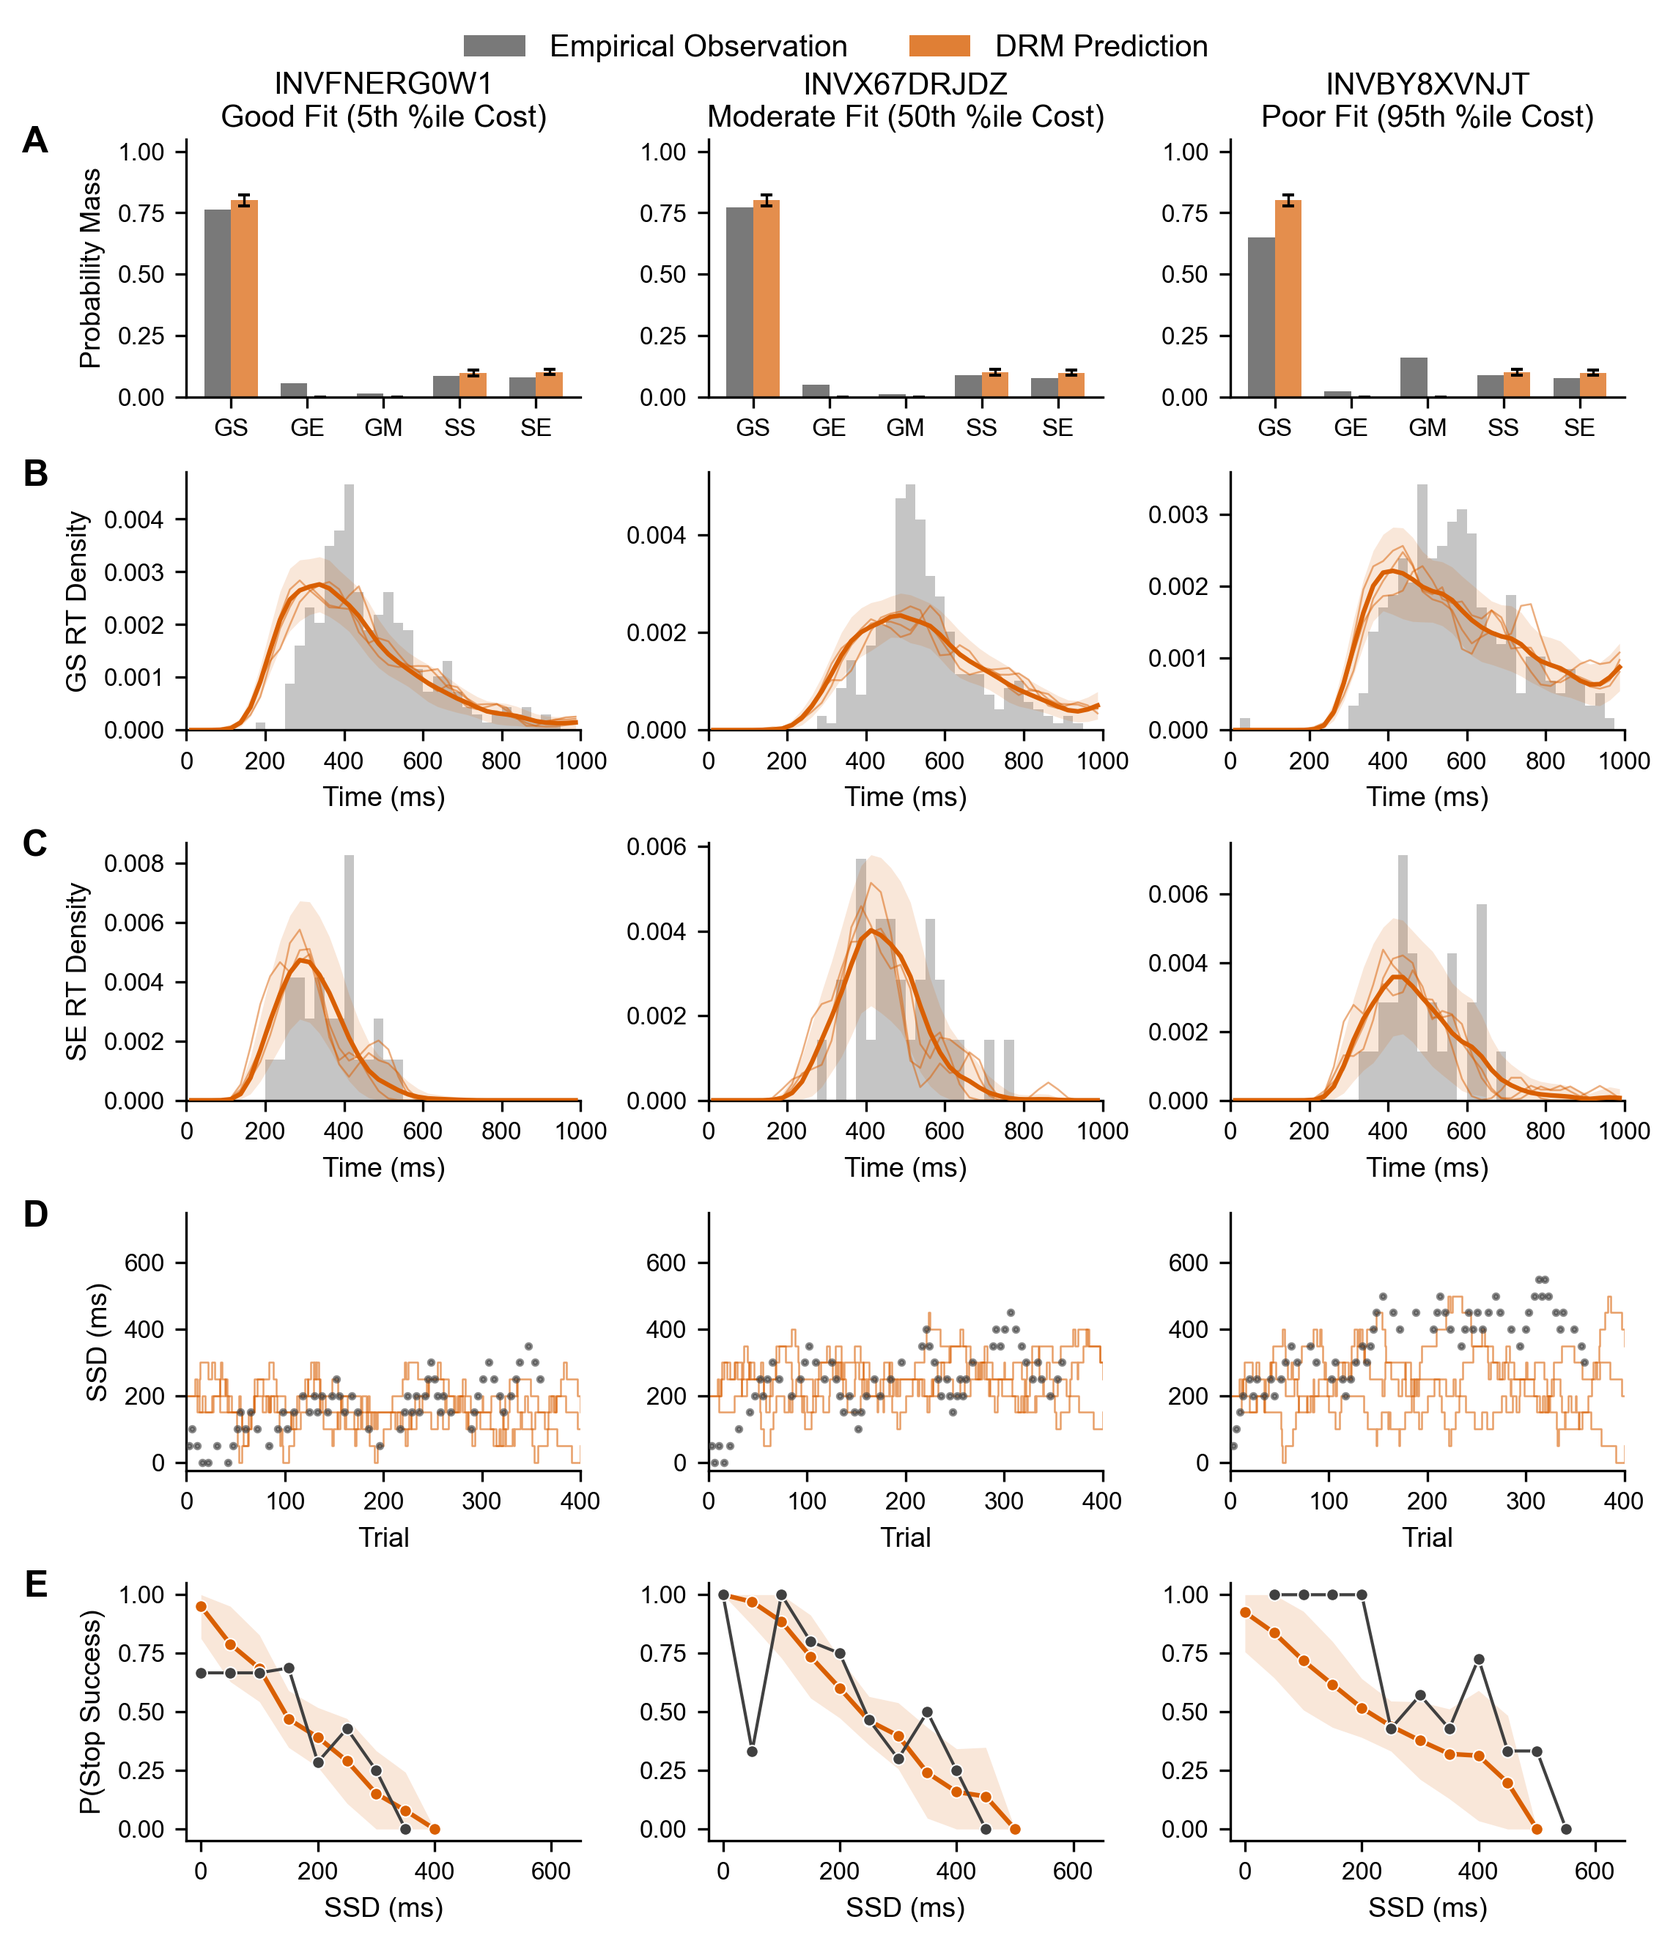
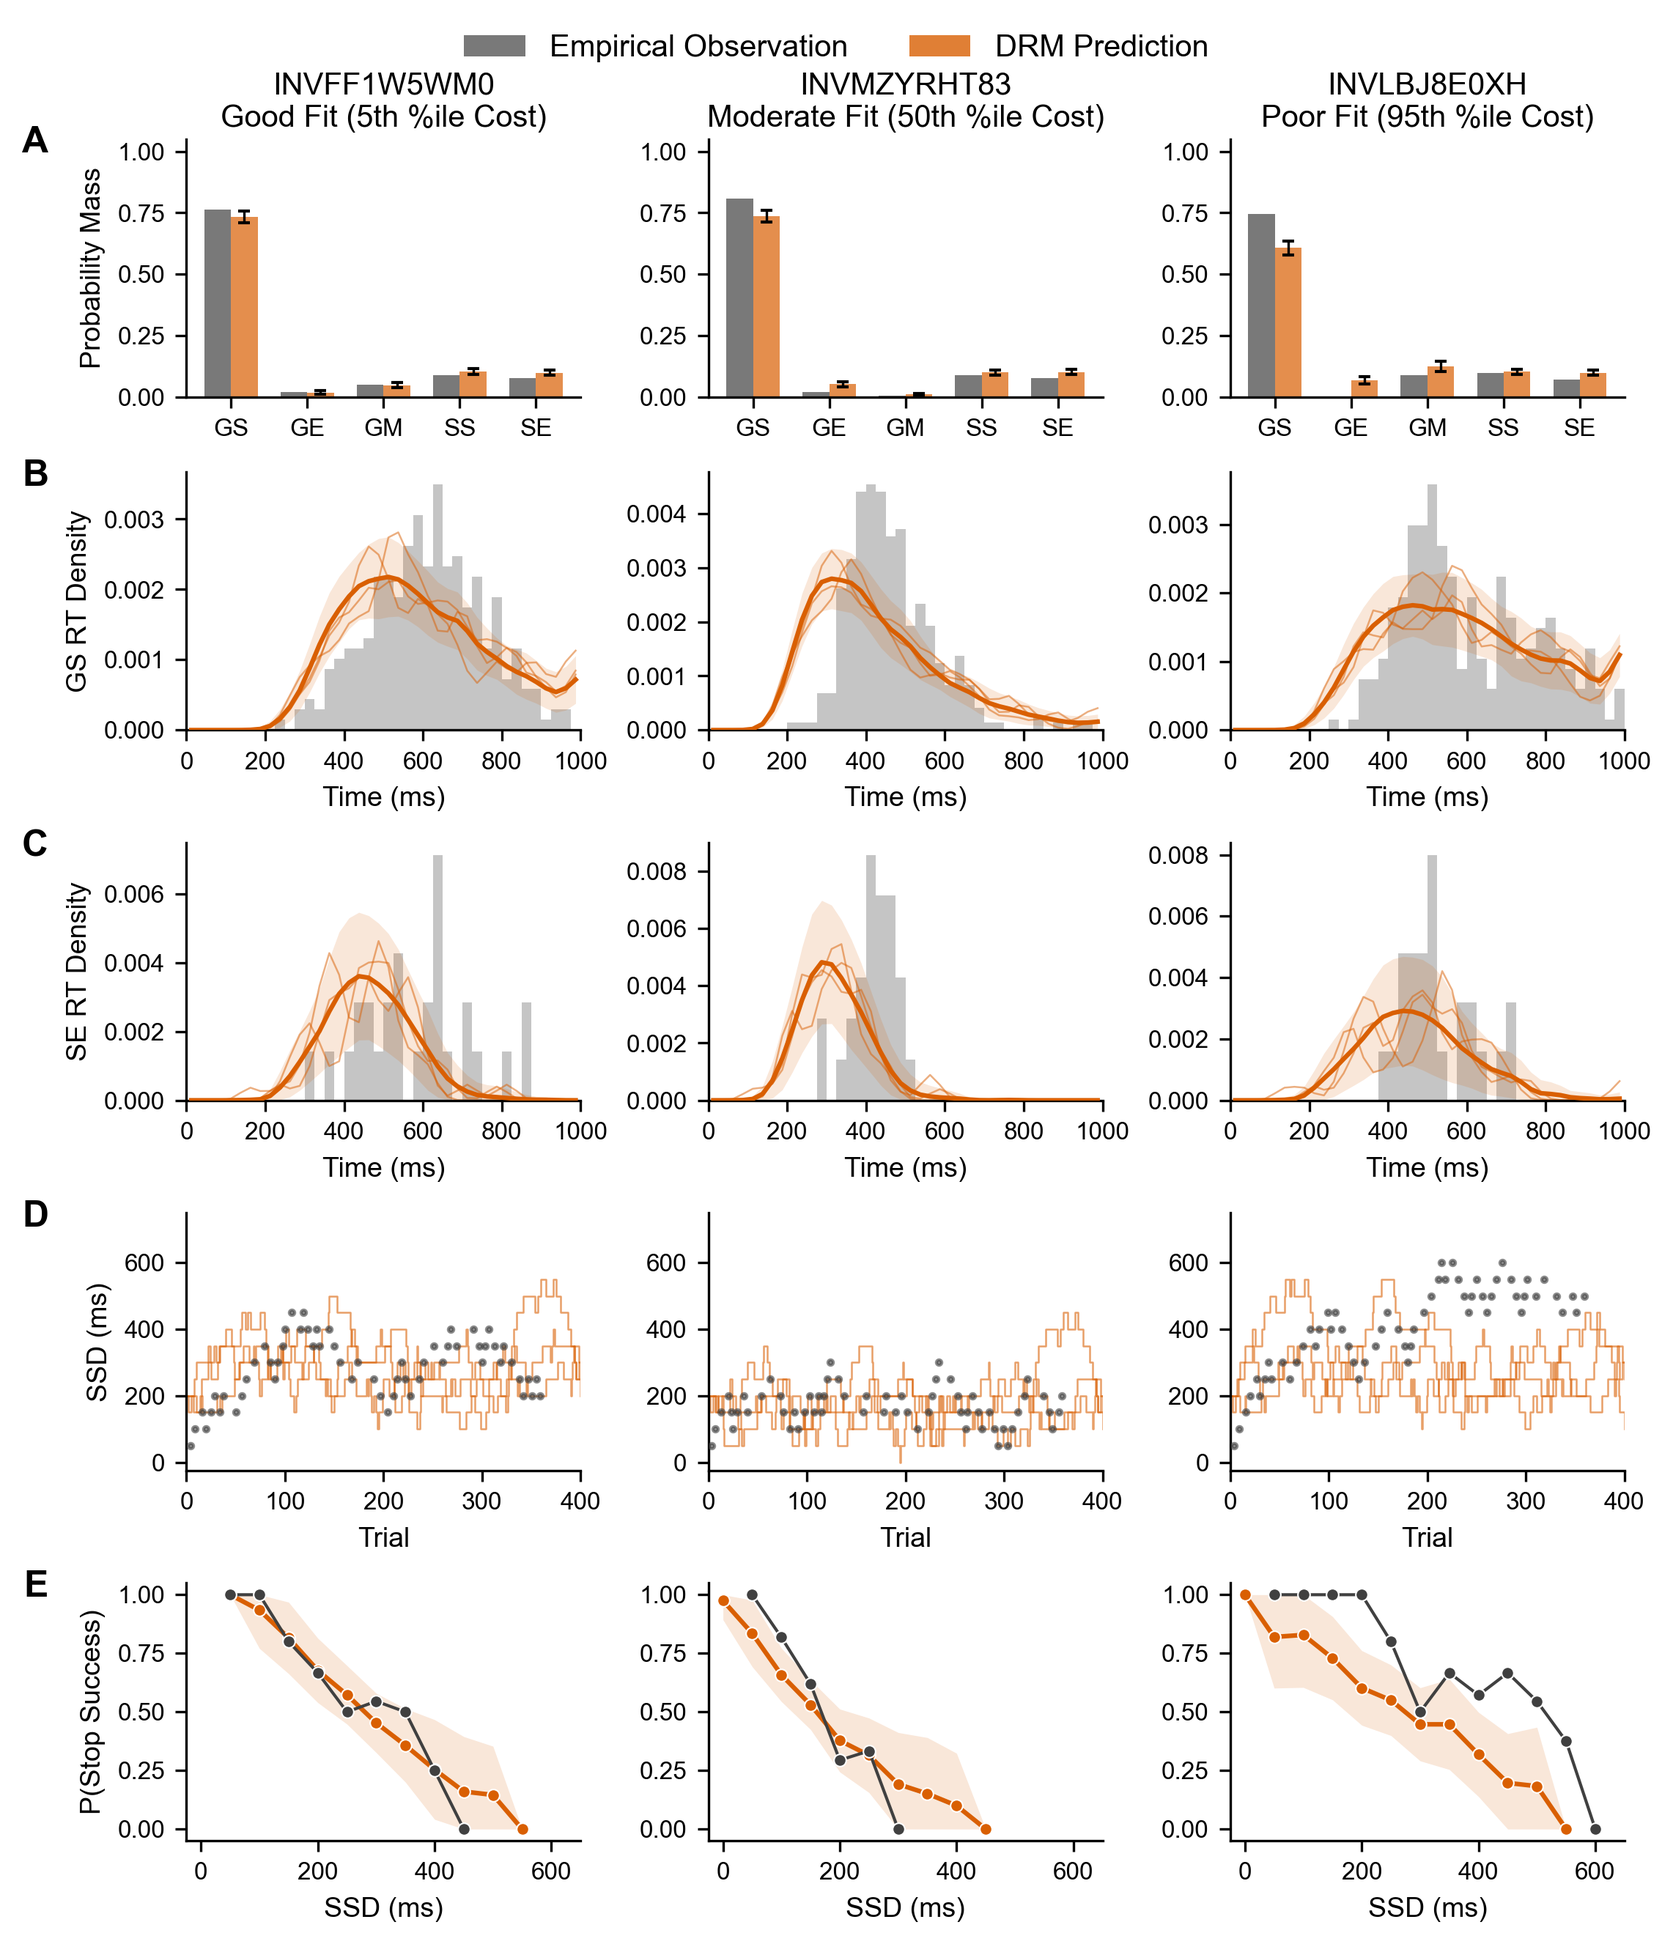
up

diff --git a/comparison/drm_pipeline.py b/comparison/drm_pipeline.py
@@ -10,17 +10,7 @@ from scipy.optimize import minimize
 from pathlib import Path
 
 # ==========================================
-# Config
-# ==========================================
-# 修改这里的数量来控制处理多少个文件（比如 100）
-NUM_TO_FIT = 100 
-
-# 如果你想画特定的 3 个人，就把他们的纯 ID 填在下面列表中，例如 ["INV1234567", "INV7654321", "INV9999999"]
-# 如果你想系统自动挑选 5%、50%、95%，请保持它是 None
-TARGET_SUBJECTS = None 
-
-# ==========================================
-# 1. DRM 模拟器与损失函数
+# 1. DRM 模拟器与损失函数 (5参数升级版)
 # ==========================================
 def generate_wald_rts(v, a, t_er, n_trials, seed=None):
     if seed is not None: np.random.seed(seed)
@@ -28,51 +18,91 @@ def generate_wald_rts(v, a, t_er, n_trials, seed=None):
     return np.random.wald(a / v, a**2, n_trials) + t_er
 
 def simulate_drm_fast_for_fitting(params, ssd_list, n_go=2000, n_stop_per_ssd=500, seed=42):
-    v_go, v_stop, a, t_er = params
-    go_rts = generate_wald_rts(v_go, a, t_er, n_go, seed=seed)
-    go_quantiles = np.percentile(go_rts, [10, 30, 50, 70, 90])
+    v_go_c, v_go_e, v_stop, a, t_er = params
     
+    go_c_rts = generate_wald_rts(v_go_c, a, t_er, n_go, seed=seed)
+    go_e_rts = generate_wald_rts(v_go_e, a, t_er, n_go, seed=seed+1)
+    
+    go_rts = np.minimum(go_c_rts, go_e_rts)
+    is_error = go_e_rts < go_c_rts
+    is_miss = go_rts > 1.0 
+    
+    sim_p_ge = np.mean(is_error & ~is_miss)
+    sim_p_gm = np.mean(is_miss)
+    
+    valid_gs = go_rts[~is_error & ~is_miss]
+    if len(valid_gs) >= 5:
+        go_quantiles = np.percentile(valid_gs, [10, 30, 50, 70, 90])
+    else:
+        go_quantiles = np.array([1.0]*5)
+        
     stop_results = {}
     for ssd in ssd_list:
-        sim_go_rts = generate_wald_rts(v_go, a, t_er, n_stop_per_ssd, seed=seed+int(ssd*1000))
-        sim_stop_rts = generate_wald_rts(v_stop, a, t_er, n_stop_per_ssd, seed=seed+int(ssd*2000)) + ssd
-        stop_results[ssd] = np.mean(sim_go_rts < sim_stop_rts)
-    return go_quantiles, stop_results
+        sim_go_c = generate_wald_rts(v_go_c, a, t_er, n_stop_per_ssd, seed=seed+int(ssd*1000))
+        sim_go_e = generate_wald_rts(v_go_e, a, t_er, n_stop_per_ssd, seed=seed+int(ssd*2000))
+        sim_go = np.minimum(sim_go_c, sim_go_e)
+        
+        sim_stop = generate_wald_rts(v_stop, a, t_er, n_stop_per_ssd, seed=seed+int(ssd*3000)) + ssd
+        p_respond = np.mean((sim_go < sim_stop) & (sim_go <= 1.0))
+        stop_results[ssd] = p_respond
+        
+    return go_quantiles, sim_p_ge, sim_p_gm, stop_results
 
 def simulate_drm_abcd_format(params, n_trials=400, n_repeat=30, step_size_ms=25):
-    v_go, v_stop, a, t_er = params['v_go'], params['v_stop'], params['a'], params['t_er']
+    v_go_c, v_go_e = params['v_go_c'], params['v_go_e']
+    v_stop, a, t_er = params['v_stop'], params['a'], params['t_er']
+    
     all_rows = []
+    deadline_steps = int(1000 / step_size_ms)
     
     for i in range(n_repeat):
         np.random.seed(42 + i) 
         current_ssd_steps = 200 / step_size_ms 
+        
         for t in range(n_trials):
             is_stop_trial = np.random.rand() < 0.20
-            mean_go = a / max(v_go, 0.001)
-            go_rt_raw = np.random.wald(mean_go, a**2) + t_er
+            
+            mean_go_c = a / max(v_go_c, 0.001)
+            mean_go_e = a / max(v_go_e, 0.001)
+            go_c_rt_raw = np.random.wald(mean_go_c, a**2) + t_er
+            go_e_rt_raw = np.random.wald(mean_go_e, a**2) + t_er
+            
+            if go_c_rt_raw < go_e_rt_raw:
+                go_rt_raw, is_correct = go_c_rt_raw, True
+            else:
+                go_rt_raw, is_correct = go_e_rt_raw, False
+                
             go_rt_steps = int(go_rt_raw * (1000 / step_size_ms)) 
             
             if not is_stop_trial:
-                result, rt_val, ssd_val = 'GS', go_rt_steps, np.nan
+                if go_rt_steps > deadline_steps:
+                    result, rt_val = 'GM', np.nan
+                else:
+                    result = 'GS' if is_correct else 'GE'
+                    rt_val = go_rt_steps
+                ssd_val = np.nan
             else:
+                ssd_val = current_ssd_steps  # <--- 修复: 之前漏了这句，导致画图时找不到 SSD 的值
                 mean_stop = a / max(v_stop, 0.001)
                 stop_rt_raw = np.random.wald(mean_stop, a**2) + t_er
                 stop_rt_steps = int(stop_rt_raw * (1000 / step_size_ms))
                 
-                if go_rt_steps < (stop_rt_steps + current_ssd_steps):
-                    result, rt_val, ssd_val = 'SE', go_rt_steps, current_ssd_steps
+                # Go 与 Stop 赛跑 (如果在死线之前跑赢了Stop，算SE；否则全算作SS)
+                if go_rt_steps < (stop_rt_steps + current_ssd_steps) and go_rt_steps <= deadline_steps:
+                    result, rt_val = 'SE', go_rt_steps
                     current_ssd_steps = max(0, current_ssd_steps - (50 / step_size_ms))
                 else:
-                    result, rt_val, ssd_val = 'SS', np.nan, current_ssd_steps
+                    result, rt_val = 'SS', np.nan
                     current_ssd_steps = current_ssd_steps + (50 / step_size_ms)
                     
             all_rows.append({'result': result, 'rt': rt_val, 'ssd': ssd_val, 'sim_id': i, 'trial': t + 1})
     return pd.DataFrame(all_rows)
 
-def loss_function(params, empirical_data, w_rt=1.0, w_inhibition=2.0):
-    v_go, v_stop, a, t_er = params
+def loss_function(params, empirical_data, w_rt=1.0, w_inhibition=2.0, w_ge=5.0, w_gm=5.0):
+    v_go_c, v_go_e, v_stop, a, t_er = params
     penalty = 0.0
-    if v_go <= 0.1: penalty += (0.1 - v_go) * 1000 + 100
+    if v_go_c <= 0.1: penalty += (0.1 - v_go_c) * 1000 + 100
+    if v_go_e <= 0.001: penalty += (0.001 - v_go_e) * 1000 + 100
     if v_stop <= 0.1: penalty += (0.1 - v_stop) * 1000 + 100
     if a <= 0.1: penalty += (0.1 - a) * 1000 + 100
     if t_er <= 0.05: penalty += (0.05 - t_er) * 1000 + 100
@@ -80,25 +110,35 @@ def loss_function(params, empirical_data, w_rt=1.0, w_inhibition=2.0):
     if penalty > 0: return 1000 + penalty 
         
     ssd_list = list(empirical_data['p_respond'].keys())
-    sim_go_q, sim_p_resp = simulate_drm_fast_for_fitting(params, ssd_list)
+    sim_go_q, sim_p_ge, sim_p_gm, sim_p_resp = simulate_drm_fast_for_fitting(params, ssd_list)
     
     emp_go_q = np.array(empirical_data['go_quantiles'])
     error_rt = np.mean((np.array(sim_go_q) - emp_go_q)**2) * w_rt
+    
+    error_ge = (sim_p_ge - empirical_data['p_ge'])**2 * w_ge
+    error_gm = (sim_p_gm - empirical_data['p_gm'])**2 * w_gm
     
     emp_p_array = np.array([empirical_data['p_respond'][ssd] for ssd in ssd_list])
     sim_p_array = np.array([sim_p_resp[ssd] for ssd in ssd_list])
     error_inhibition = np.mean((sim_p_array - emp_p_array)**2) * w_inhibition
         
-    return error_rt + error_inhibition
+    return error_rt + error_inhibition + error_ge + error_gm
 
 # ==========================================
 # 2. 数据处理与特征提取
 # ==========================================
 def extract_empirical_data(df):
-    go_trials = df[df['result'] == 'GS']
+    go_trials = df[df['sequence'] == 0]
     if go_trials.empty: return None
-    rts = go_trials['rt_real'].dropna().values / 1000.0
+    
+    gs_trials = go_trials[go_trials['result'] == 'GS']
+    if gs_trials.empty: return None
+    
+    rts = gs_trials['rt_real'].dropna().values / 1000.0
     go_quantiles = np.percentile(rts, [10, 30, 50, 70, 90])
+    
+    p_ge = (go_trials['result'] == 'GE').mean()
+    p_gm = (go_trials['result'] == 'GM').mean()
     
     stop_trials = df[df['result'].isin(['SS', 'SE'])]
     p_respond = {}
@@ -108,17 +148,15 @@ def extract_empirical_data(df):
             p_respond[ssd_real / 1000.0] = (group['result'] == 'SE').mean()
             
     if not p_respond: return None
-    return {'go_quantiles': go_quantiles, 'p_respond': p_respond}
+    return {'go_quantiles': go_quantiles, 'p_ge': p_ge, 'p_gm': p_gm, 'p_respond': p_respond}
 
 from preprocessing import preprocessing 
 
 def get_subject_id(file_name):
-    """提取 ID，去除 NDAR_ 前缀，只保留 INVxxxxxxx 的部分"""
     name = Path(file_name).name
     if 'NDAR' in name:
         parts = name.split('_')
         for i, part in enumerate(parts):
-            # 当找到 NDAR 时，直接返回它后面的那段纯 ID（丢掉 NDAR_）
             if part == 'NDAR' and i + 1 < len(parts):
                 return parts[i+1] 
     return Path(file_name).stem.split('_')[0].replace('NDAR_', '')
@@ -138,7 +176,7 @@ def load_and_preprocess_file(file_path):
         return subject_id, preprocessing(str(fp))
 
 # ==========================================
-# 3. 绘图配置与函数 (5-Panel 完整版)
+# 3. 绘图配置与函数
 # ==========================================
 plt.rcParams['font.family'] = 'sans-serif'
 plt.rcParams['font.sans-serif'] = ['Arial', 'Helvetica', 'DejaVu Sans']
@@ -241,7 +279,8 @@ def plot_drm_ppc(subjects_data, output_path="fig_drm_ppc.png", step_size_ms=25):
         # --- Row 4 (Panel D): SSD Tracking ---
         ax = axs[3, col_idx]
         ax.scatter(df_obs.index + 1, df_obs['ssd_real'], color=COLOR_OBS, s=STYLE['marker_size'], alpha=0.6, zorder=10)
-        df_sim['ssd_ms'] = df_sim.groupby('sim_id')['ssd'].ffill() * step_size_ms
+        # 修复: 加入 bfill() 确保如果最初几次是 Go 也能画出线来
+        df_sim['ssd_ms'] = df_sim.groupby('sim_id')['ssd'].ffill().bfill() * step_size_ms
         for i, sub in df_sim.groupby('sim_id'):
             if i < 3: ax.step(sub['trial'], sub['ssd_ms'], color=COLOR_SIM, alpha=0.6, linewidth=STYLE['sim_trace_lw'], where='post')
         ax.set_xlim(0, 400); ax.set_yticks([0, 200, 400, 600]); ax.set_ylim(-25, 750); ax.set_xlabel("Trial", fontsize=STYLE['label_fontsize'])
@@ -284,17 +323,13 @@ def plot_drm_ppc(subjects_data, output_path="fig_drm_ppc.png", step_size_ms=25):
 # 4. 主执行流 (Pipeline)
 # ==========================================
 def run_pipeline(data_dir, output_csv="drm_fit_results.csv", output_img="fig_drm_ppc_comparison.png", n_fit=100, target_plot_sids=None):
-    """
-    n_fit: 要拟合的被试数量
-    target_plot_sids: 特定想要画图的被试 ID 列表（无需 NDAR_）。如果为 None，则挑 5%, 50%, 95%。
-    """
     folder_path = Path(data_dir)
     files = list(folder_path.glob("*.zip")) or list(folder_path.rglob("*.csv"))
     target_files = files[:n_fit]
     
     print(f"\n--- STEP 1: FITTING {len(target_files)} SUBJECTS ---")
     results = []
-    initial_guess = [2.5, 3.0, 1.0, 0.2] 
+    initial_guess = [2.5, 0.2, 3.0, 1.0, 0.2] 
     
     for fp in target_files:
         try:
@@ -304,38 +339,34 @@ def run_pipeline(data_dir, output_csv="drm_fit_results.csv", output_img="fig_drm
                 print(f"[{subject_id}] Skipped: Not enough valid trials.")
                 continue
                 
-            res = minimize(loss_function, initial_guess, args=(empirical_data,), method='Nelder-Mead', options={'maxiter': 800})
+            res = minimize(loss_function, initial_guess, args=(empirical_data,), method='Nelder-Mead', options={'maxiter': 1000})
             results.append({
                 'subject_id': subject_id, 'file_path': str(fp), 'df_clean': df_clean, 
-                'v_go': res.x[0], 'v_stop': res.x[1], 'a': res.x[2], 't_er': res.x[3], 'gof': res.fun
+                'v_go_c': res.x[0], 'v_go_e': res.x[1], 'v_stop': res.x[2], 'a': res.x[3], 't_er': res.x[4], 'gof': res.fun
             })
             print(f"[{subject_id}] Fitted. Cost: {res.fun:.2f}")
         except Exception as e:
             print(f"[{fp.name}] Error: {e}")
             
     df_results = pd.DataFrame(results)
-    df_results[['subject_id', 'file_path', 'v_go', 'v_stop', 'a', 't_er', 'gof']].to_csv(output_csv, index=False)
+    df_results[['subject_id', 'file_path', 'v_go_c', 'v_go_e', 'v_stop', 'a', 't_er', 'gof']].to_csv(output_csv, index=False)
     print(f"\n=> Fitting completed. Parameters saved to {output_csv}")
     
     print(f"\n--- STEP 2: GENERATING PLOT ---")
     df_sorted = df_results.sort_values(by='gof').reset_index(drop=True)
     n = len(df_sorted)
-    
     selection = []
     
-    # 如果指定了特定被试，则去寻找他们
     if target_plot_sids:
         print(f"Looking for specific target subjects: {target_plot_sids}")
         for sid in target_plot_sids:
             matches = df_sorted[df_sorted['subject_id'] == sid]
             if not matches.empty:
-                # 获取该被试排序后的索引位置
                 idx = matches.index[0]
                 cost_val = matches.iloc[0]['gof']
                 selection.append((idx, f"Target Subject\nCost: {cost_val:.2f}"))
             else:
                 print(f"[Warning] Target Subject '{sid}' not found among fitted subjects.")
-    # 否则按默认的 5%, 50%, 95% 挑选
     else:
         if n < 3:
             print("Not enough successful fits to select 3 percentiles. Aborting plot generation.")
@@ -346,9 +377,7 @@ def run_pipeline(data_dir, output_csv="drm_fit_results.csv", output_img="fig_drm
             (int(n * 0.95), "Poor Fit (95th %ile Cost)")
         ]
     
-    if not selection:
-        print("No subjects selected to plot.")
-        return
+    if not selection: return
 
     subjects_data_for_plot = []
     for idx, label_text in selection:
@@ -357,7 +386,10 @@ def run_pipeline(data_dir, output_csv="drm_fit_results.csv", output_img="fig_drm
         print(f"Preparing data for: {sid} ({label_text.replace(chr(10), ' - ')})")
         
         df_obs = subj_info['df_clean']
-        params_dict = {'v_go': subj_info['v_go'], 'v_stop': subj_info['v_stop'], 'a': subj_info['a'], 't_er': subj_info['t_er']}
+        params_dict = {
+            'v_go_c': subj_info['v_go_c'], 'v_go_e': subj_info['v_go_e'], 
+            'v_stop': subj_info['v_stop'], 'a': subj_info['a'], 't_er': subj_info['t_er']
+        }
         df_sim = simulate_drm_abcd_format(params_dict, n_trials=400, n_repeat=30, step_size_ms=25)
         
         subjects_data_for_plot.append({'label': f"{sid}\n{label_text}", 'df_obs': df_obs, 'df_sim': df_sim})
@@ -366,5 +398,7 @@ def run_pipeline(data_dir, output_csv="drm_fit_results.csv", output_img="fig_drm
 
 if __name__ == "__main__":
     DATA_DIR = "/Users/w/Desktop/data/sst_valid_base"
+    NUM_TO_FIT = 100 
+    TARGET_SUBJECTS = None 
     
     run_pipeline(DATA_DIR, n_fit=NUM_TO_FIT, target_plot_sids=TARGET_SUBJECTS)
